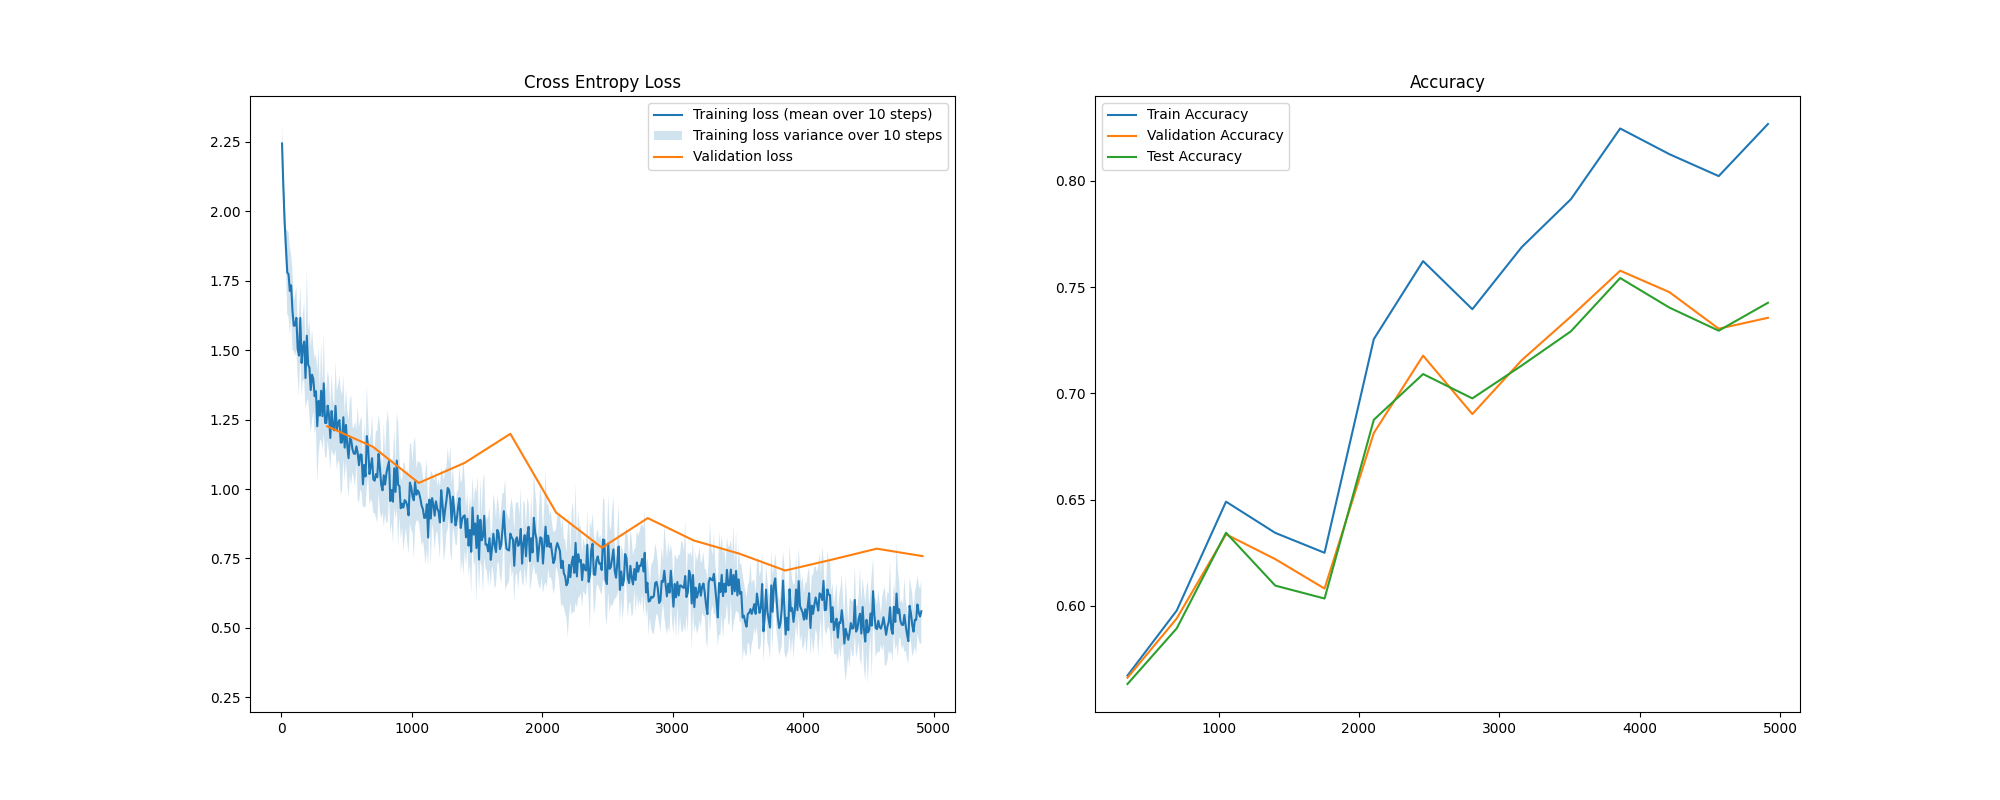
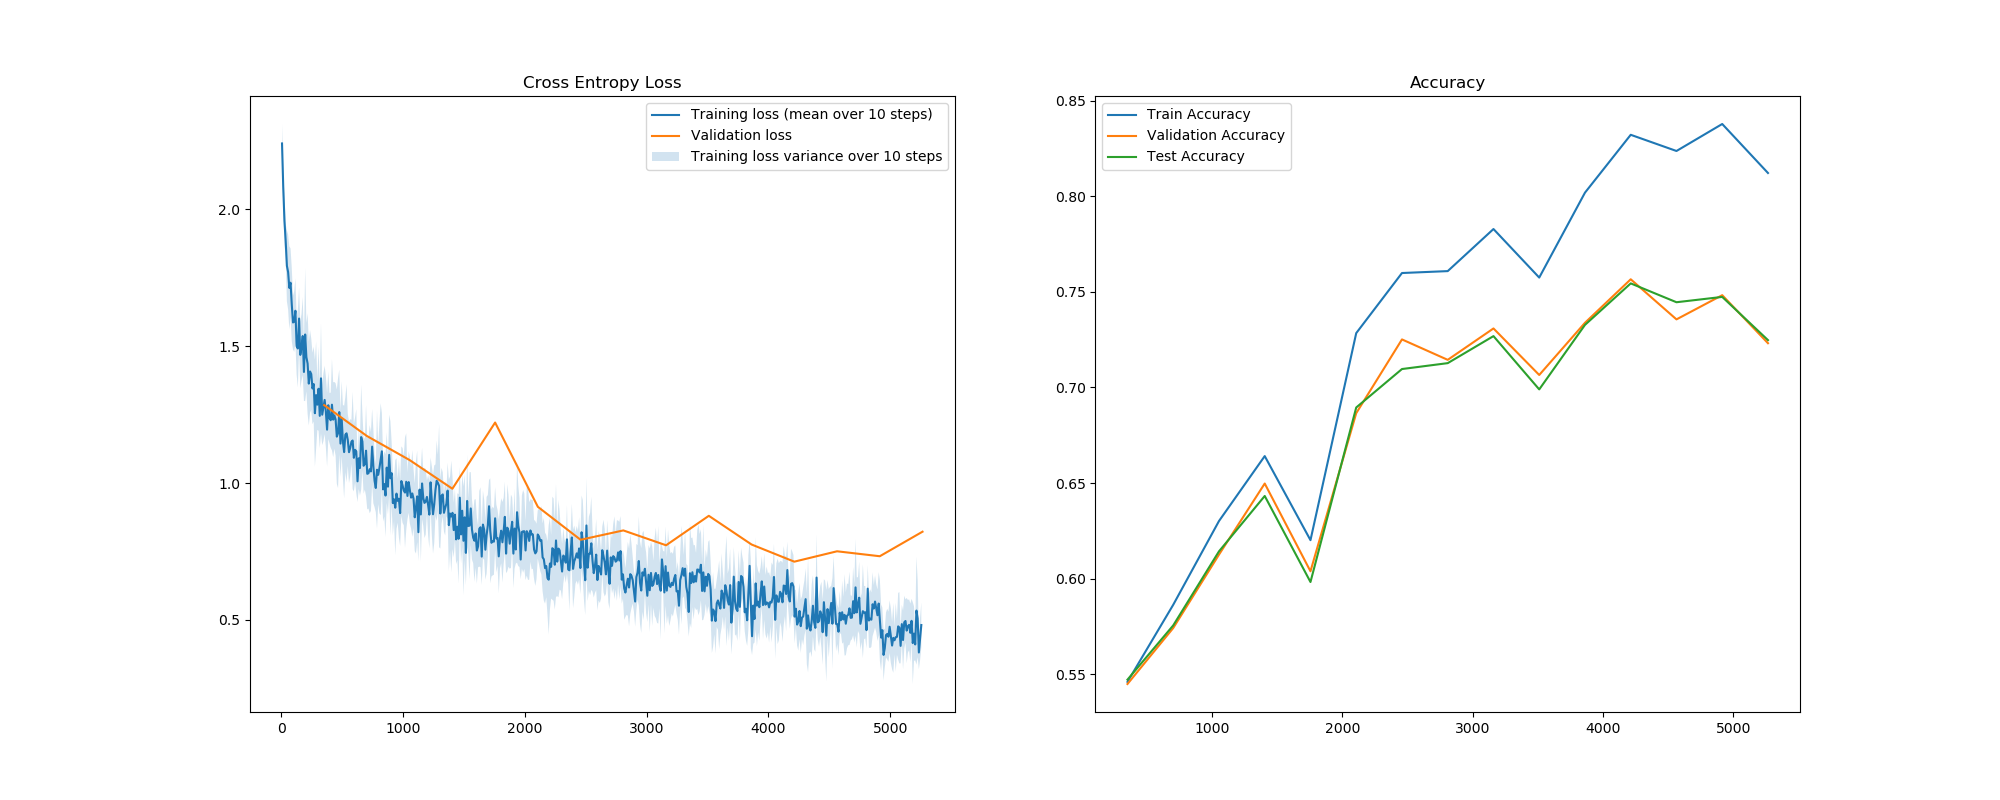
finished task3!

diff --git a/assignment3/task3d.py b/assignment3/task3d.py
@@ -1,0 +1,73 @@
+import pathlib
+import torch
+import matplotlib.pyplot as plt
+from torch.nn.modules.linear import Linear
+import utils
+from torch import nn
+from dataloaders import load_cifar10
+from trainer import Trainer
+import time
+from task2 import ExampleModel
+from task3_model2 import Model2
+
+
+
+def create_plots(trainer_examplemodel: Trainer, trainer_model2: Trainer, name: str):
+    plot_path = pathlib.Path("plots")
+    plot_path.mkdir(exist_ok=True)
+    # Save plots and show them
+    plt.figure(figsize=(20, 8))
+    plt.subplot(1, 2, 1)
+    plt.title("Cross Entropy Loss")
+    utils.plot_loss(trainer_examplemodel.train_history["loss"], label="Training loss - exampleModel", npoints_to_average=10)
+    utils.plot_loss(trainer_examplemodel.validation_history["loss"], label="Validation loss - exampleModel")
+
+    utils.plot_loss(trainer_model2.train_history["loss"], label="Training loss - Model2", npoints_to_average=10)
+    utils.plot_loss(trainer_model2.validation_history["loss"], label="Validation loss - Model2")
+    plt.legend()
+    plt.savefig(plot_path.joinpath(f"{name}_plot.png"))
+    plt.show()
+
+
+def main():
+    # Set the random generator seed (parameters, shuffling etc).
+    # You can try to change this and check if you still get the same result! 
+    
+    starttime = time.time()
+    utils.set_seed(0)
+    epochs = 10
+    batch_size = 64
+    learning_rate = 5e-2
+    early_stop_count = 4
+    dataloaders = load_cifar10(batch_size)
+    model_ex = ExampleModel(image_channels=3, num_classes=10)
+    trainer_examplemodel = Trainer(
+        batch_size,
+        learning_rate,
+        early_stop_count,
+        epochs,
+        model_ex,
+        dataloaders
+    )
+    trainer_examplemodel.optimizer = torch.optim.SGD(model_ex.parameters(), learning_rate)
+    trainer_examplemodel.train()
+
+    model_2 = Model2(image_channels=3, num_classes=10)
+    trainer_model2 = Trainer(
+        batch_size,
+        learning_rate,
+        early_stop_count,
+        epochs,
+        model_2,
+        dataloaders
+        )
+    trainer_model2.optimizer = torch.optim.ASGD(model_2.parameters(), learning_rate, lambd=0.0001, alpha=0.75, t0=1000000.0, weight_decay=0)
+    trainer_model2.train()
+
+    endtime = time.time()
+    print("Time is took to run the network: ", endtime-starttime)
+    
+    create_plots(trainer_examplemodel, trainer_model2, "task3d")
+
+if __name__ == "__main__":
+    main()

diff --git a/assignment3/task3_e.py b/assignment3/task3_e.py
@@ -106,7 +106,7 @@ def create_plots(trainer: Trainer, name: str):
     plt.title("Cross Entropy Loss")
     utils.plot_loss(trainer.train_history["loss"], label="Training loss", npoints_to_average=10)
     utils.plot_loss(trainer.validation_history["loss"], label="Validation loss")
-    utils.plot_loss(trainer.test_history["loss"], label="Test loss", npoints_to_average=10)
+    utils.plot_loss(trainer.test_history["loss"], label="Test loss")
     plt.legend()
     plt.subplot(1, 2, 2)
     plt.title("Accuracy")
@@ -123,7 +123,7 @@ def main():
     # You can try to change this and check if you still get the same result! 
     starttime = time.time()
     utils.set_seed(0)
-    epochs = 1
+    epochs = 10
     batch_size = 64
     learning_rate = 1e-3
     early_stop_count = 4
@@ -140,7 +140,7 @@ def main():
     trainer.train()
     endtime = time.time()
     print("Time is took to run the network: ", endtime-starttime)
-    create_plots(trainer, "task3_model2")
+    create_plots(trainer, "task3_model_e")
 
 if __name__ == "__main__":
    main()

diff --git a/assignment3/trainer.py b/assignment3/trainer.py
@@ -69,9 +69,10 @@ class Trainer:
         #Task 2 and Task 3 model 1
         #self.optimizer = torch.optim.SGD(self.model.parameters(), self.learning_rate)
         #Task 3 model 2
-        self.optimizer = torch.optim.ASGD(self.model.parameters(), self.learning_rate, lambd=0.0001, alpha=0.75, t0=1000000.0, weight_decay=0)
+        #self.optimizer = torch.optim.ASGD(self.model.parameters(), self.learning_rate, lambd=0.0001, alpha=0.75, t0=1000000.0, weight_decay=0)
+        #For task 3d, we initialized optimizer in file task3d.py 
         #Task 3 e)
-        #self.optimizer = torch.optim.Adam(self.model.parameters(), self.learning_rate)
+        self.optimizer = torch.optim.Adam(self.model.parameters(), self.learning_rate)
 
         # Load our dataset
         self.dataloader_train, self.dataloader_val, self.dataloader_test = dataloaders

diff --git a/assignment3/dataloaders.py b/assignment3/dataloaders.py
@@ -23,9 +23,9 @@ def load_cifar10(batch_size: int, validation_fraction: float = 0.1
     transform_train = transforms.Compose([
         transforms.ToTensor(),
         transforms.Normalize(mean, std),
-        # transforms.RandomHorizontalFlip(),
-        # transforms.RandomCrop(32, padding=4),
-        #transforms.ColorJitter()
+        transforms.RandomHorizontalFlip(),
+        transforms.RandomCrop(32, padding=4),
+        transforms.ColorJitter()
     ])
     
 
